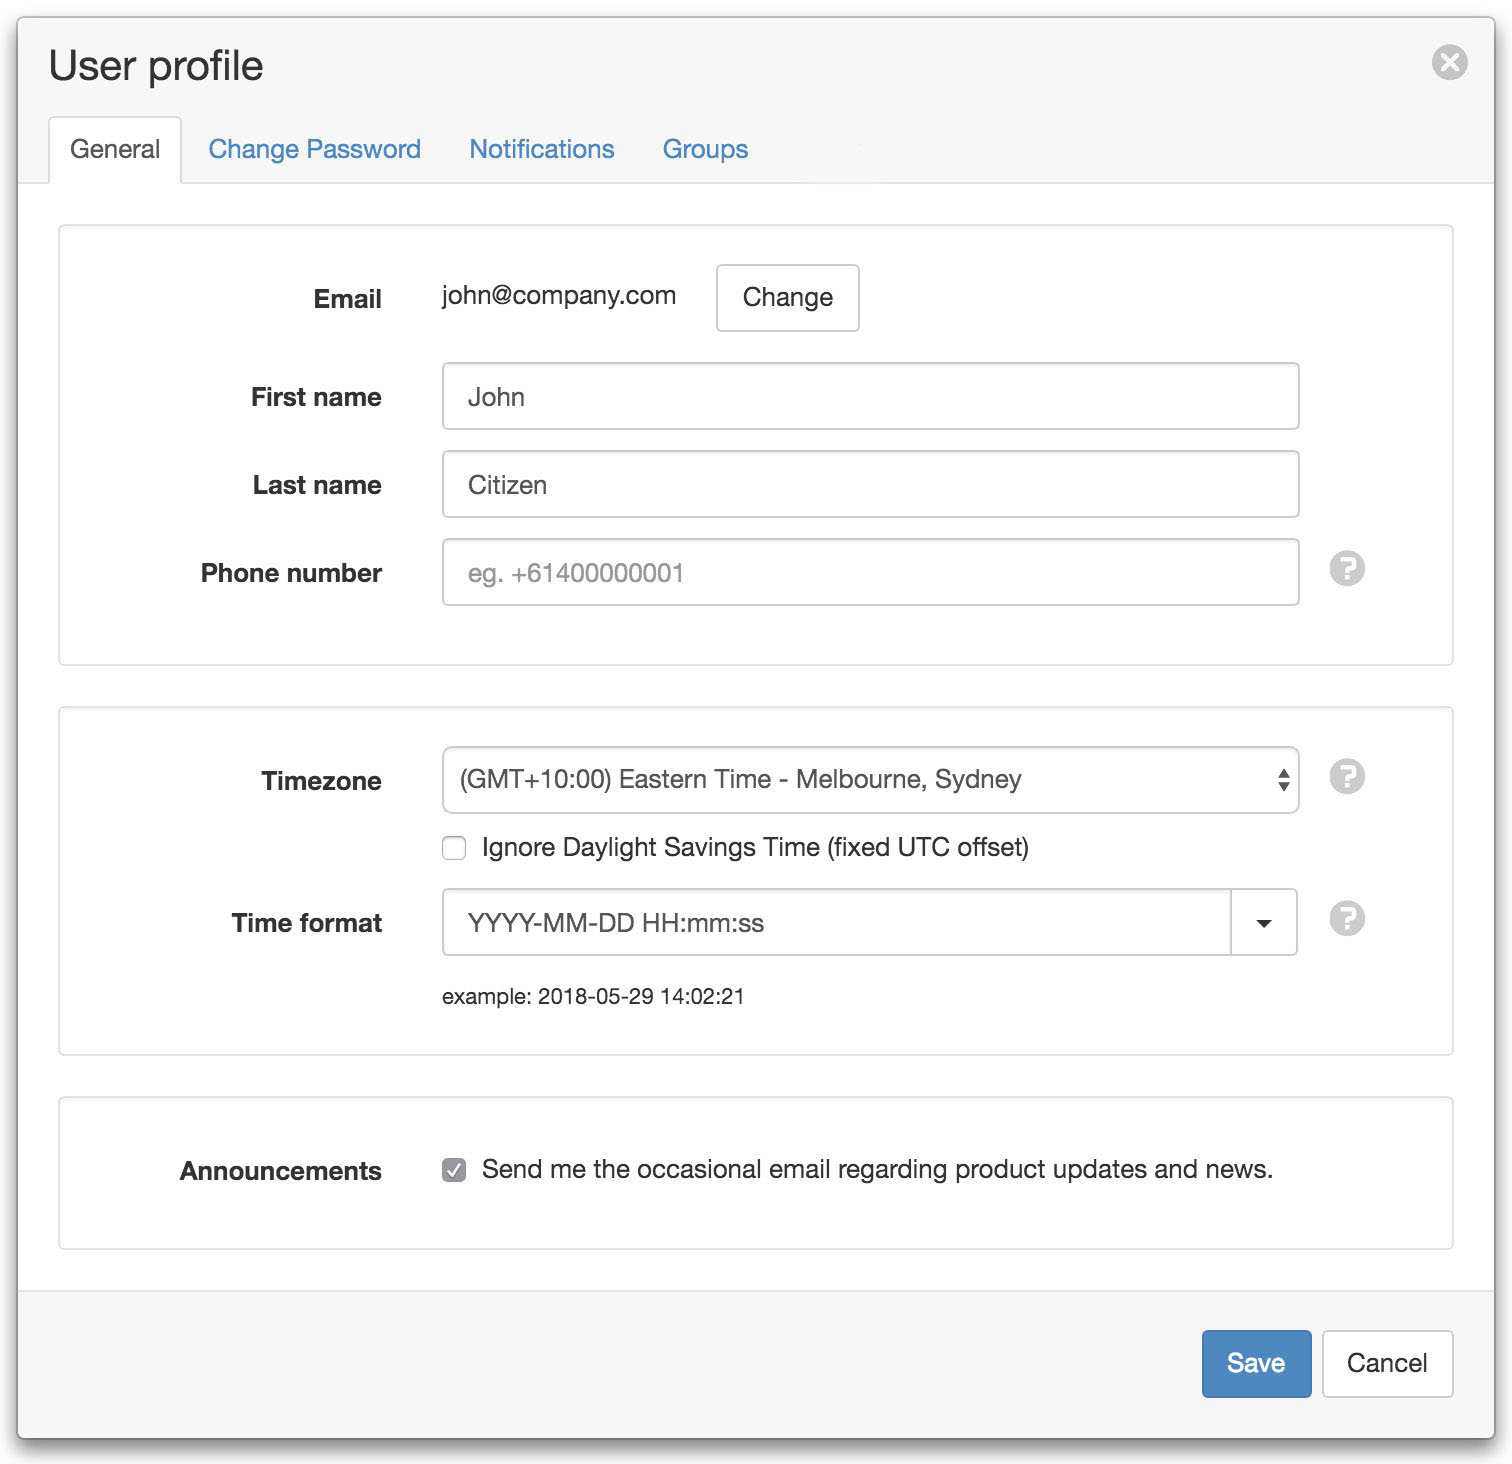
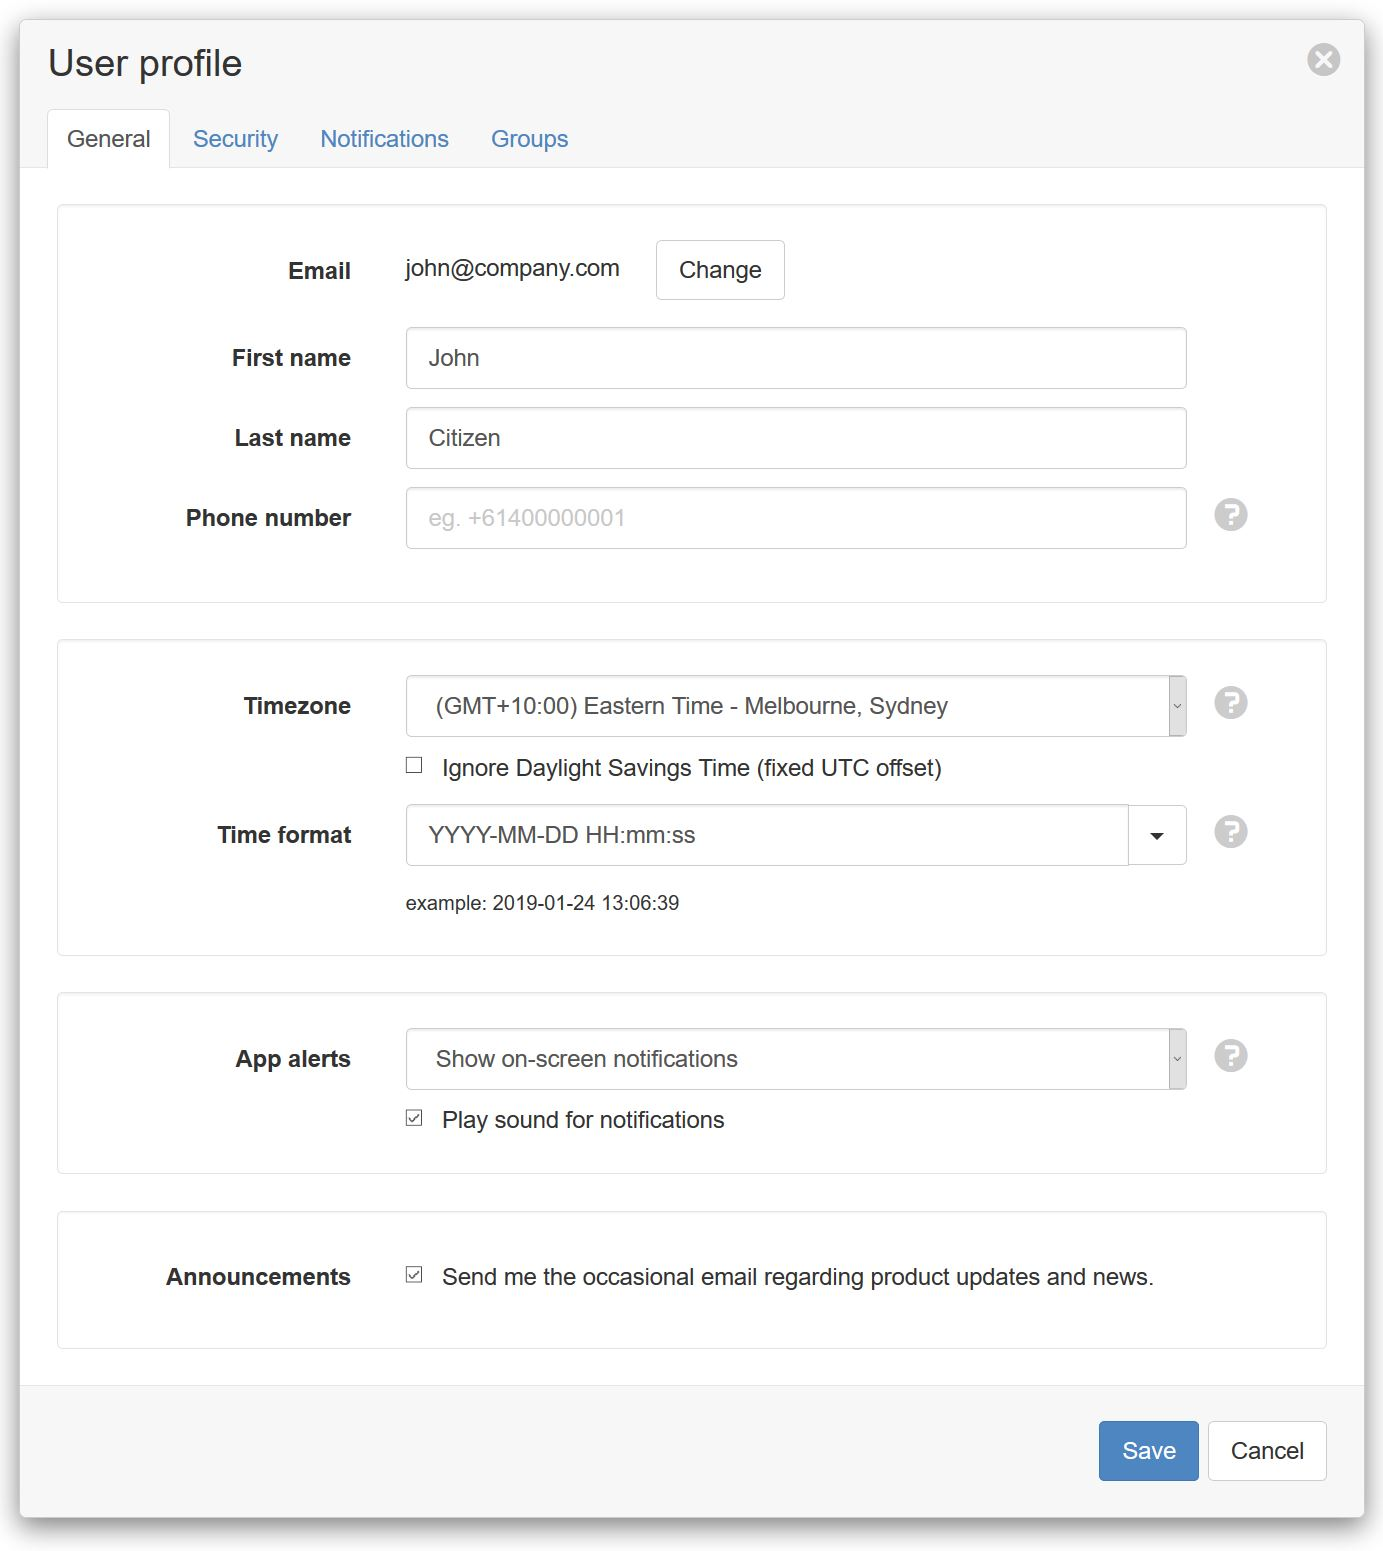
Add two-factor auth to user profile docs

diff --git a/source/topics/user_preferences/index.rst b/source/topics/user_preferences/index.rst
@@ -44,10 +44,16 @@ Time format is used to specify the default appearance of date & time information
 
     |
     
-Resetting your password
------------------------
-The User profile has a *Change Password* section for immediate password changes.
+Security
+--------
+The User profile has a *Security* section for immediate password changes and management of two-factor authentication.
 If you have forgotten your password you can use the *Forgot Password* link on the public site to send a reset link to your user profile email address.
+
+
+Two-Factor Authentication
+~~~~~~~~~~~~~~~~~~~~~~~~~
+Two-Factor authentication adds an extra layer of security to your account. This feature is optional, and can be enabled by clicking the *Enable Two-Factor Authentication* button:
+
 
 .. raw:: latex
 
@@ -55,7 +61,7 @@ If you have forgotten your password you can use the *Forgot Password* link on th
 
 .. only:: not latex
 
-    .. image:: user_profile_password.jpg
+    .. image:: user_profile_security.jpg
         :scale: 50 %
 
     | 
@@ -64,12 +70,16 @@ If you have forgotten your password you can use the *Forgot Password* link on th
 
     | 
 
-    .. image:: user_profile_password.jpg
+    .. image:: user_profile_security.jpg
 
 .. only:: not latex
 
     |
     
+
+Once enabled, you will need to provide a code along with your username and password when logging in.
+
+
 .. _user-notification-preferences:
 
 Notification preferences
@@ -99,7 +109,7 @@ Within each Workspace, you will see a list of Notification Categories specific t
 Use the SMS, Email & Voice checkboxes to set your preferences on what types of notifications you would like to receive for each Category.
 
 .. note:: 
-	You must also be subscribed to the individual Nodes you would like to receive the notifications for. See :ref:`Subscribe to Nodes <subscribe-nodes>` for full details. A valid phone number must also be provided in order to receive SMS & Voice notifications.
+	You must also be subscribed to the individual Nodes you would like to receive the notifications for. See :ref:`Subscribe to Nodes <subscribe-nodes>` for full details. A valid phone number must also be provided in order to receive SMS notifications.
 
 .. only:: not latex
 
